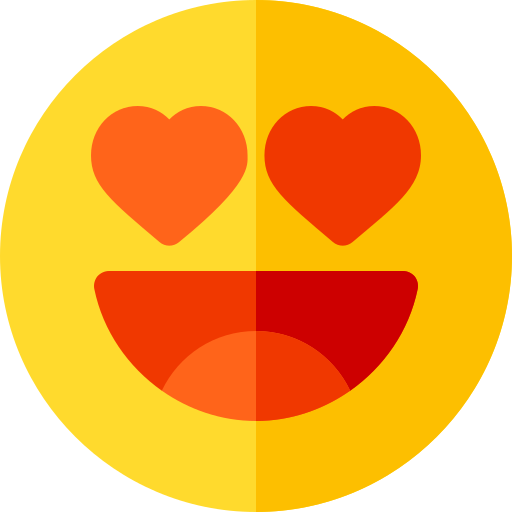
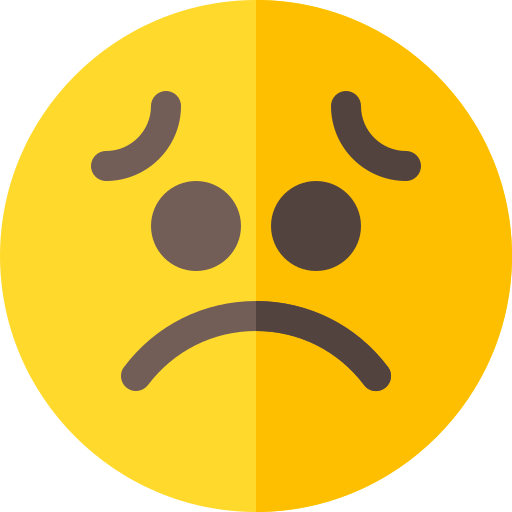
complete result pages

Changed region(s): [[0.1562, 0.1562, 0.8438, 0.8438]]

diff --git a/pages/ResultPage3/index.js b/pages/ResultPage3/index.js
@@ -6,15 +6,16 @@ import ResultImage from '../../comps/ResultImage';
 import ResultExplanation from '../../comps/ResultExplanation';
 import '../HomePage/page1.css';
 
-const picToShow = require('../../comps/ResultImage/face1.png')
+const picToShow = require('../../comps/ResultImage/face3.png')
 
-const ResultPage = ({profpic}) =>
+const ResultPage3 = ({profpic}) =>
     <div id="app">
         <Header />
         <ResultTitle />
-        <ResultImage />
+        <ResultImage 
+        profpic={picToShow}/>
         <ResultExplanation
-            text="Sorry, you contribute to the creation of environmental pollutants. - but don't worry. We have some tips to improve. Let's check tips to improve. "/>
+            text="You are a sustainable superstar! Looks like you already know the benefits of a sustainable lifestyle. We have included some tips on how you can best spread your knowledge to those around you!"/>
     <div class="resultbutton">
             <Button
                 width="190px"
@@ -22,4 +23,4 @@ const ResultPage = ({profpic}) =>
         </div>
     </div>
 
-export default ResultPage;
+export default ResultPage3;

diff --git a/pages/ResultPage2/index.js b/pages/ResultPage2/index.js
@@ -6,15 +6,16 @@ import ResultImage from '../../comps/ResultImage';
 import ResultExplanation from '../../comps/ResultExplanation';
 import '../HomePage/page1.css';
 
-const picToShow = require('../../comps/ResultImage/face1.png')
+const picToShow = require('../../comps/ResultImage/face2.png')
 
-const ResultPage = ({profpic}) =>
+const ResultPage2 = ({profpic}) =>
     <div id="app">
         <Header />
         <ResultTitle />
-        <ResultImage />
+        <ResultImage 
+        profpic={picToShow}/>
         <ResultExplanation
-            text="Sorry, you contribute to the creation of environmental pollutants. - but don't worry. We have some tips to improve. Let's check tips to improve. "/>
+            text="Good, you are on the right track but there's still room for improvement. We have some tips to help you out! "/>
     <div class="resultbutton">
             <Button
                 width="190px"
@@ -22,4 +23,4 @@ const ResultPage = ({profpic}) =>
         </div>
     </div>
 
-export default ResultPage;
+export default ResultPage2;

diff --git a/pages/QuestionPage3/index.js b/pages/QuestionPage3/index.js
@@ -4,7 +4,7 @@ import Header from '../../comps/Header';
 import Button from '../../comps/Button';
 import '../HomePage/page1.css';
 
-export const QuestionPage3 = () =>
+const QuestionPage3 = ({}) =>
     <div id="app">
         <Header />
         <Question3/>

diff --git a/pages/QuestionPage1/index.js b/pages/QuestionPage1/index.js
@@ -4,7 +4,7 @@ import Header from '../../comps/Header';
 import Button from '../../comps/Button';
 import '../HomePage/page1.css';
 
-export const QuestionPage1 = () =>
+const QuestionPage1 = ({}) =>
     <div id="app">
         <Header />
         <Question1

diff --git a/pages/QuestionPage2/index.js b/pages/QuestionPage2/index.js
@@ -4,7 +4,7 @@ import Header from '../../comps/Header';
 import Button from '../../comps/Button';
 import '../HomePage/page1.css';
 
-export const QuestionPage2 = () =>
+const QuestionPage2 = ({}) =>
     <div id="app">
         <Header />
         <Question2

diff --git a/comps/ResultImage/index.js b/comps/ResultImage/index.js
@@ -1,7 +1,7 @@
 import React from 'react';
 import './resultimage.css';
 
-const defaultProfPic= require('./face3.png');
+const defaultProfPic= require('./face1.png');
 
 const ResultImage = ({profpic}) =>
     <div id="resultimage"><img src={profpic} />

diff --git a/stories/ResultPage2.stories.js b/stories/ResultPage2.stories.js
@@ -1,0 +1,11 @@
+import React from 'react';
+import ResultPage2 from '../pages/ResultPage2';
+
+export default {
+    title: 'ResultPage2',
+}
+
+export const ResultPage02 = () =>
+    <div>
+        <ResultPage2 />
+    </div>

diff --git a/stories/ResultPage3.stories.js b/stories/ResultPage3.stories.js
@@ -1,0 +1,11 @@
+import React from 'react';
+import ResultPage3 from '../pages/ResultPage3';
+
+export default {
+    title: 'ResultPage3',
+}
+
+export const ResultPage03 = () =>
+    <div>
+        <ResultPage3 />
+    </div>

diff --git a/pages/HomePage/index.js b/pages/HomePage/index.js
@@ -5,8 +5,6 @@ import Header from '../../comps/Header';
 import Button from '../../comps/Button';
 import './page1.css';
 
-
-    
 const HomePage = ({}) =>
 <div id="homeapp">
         <Header />
